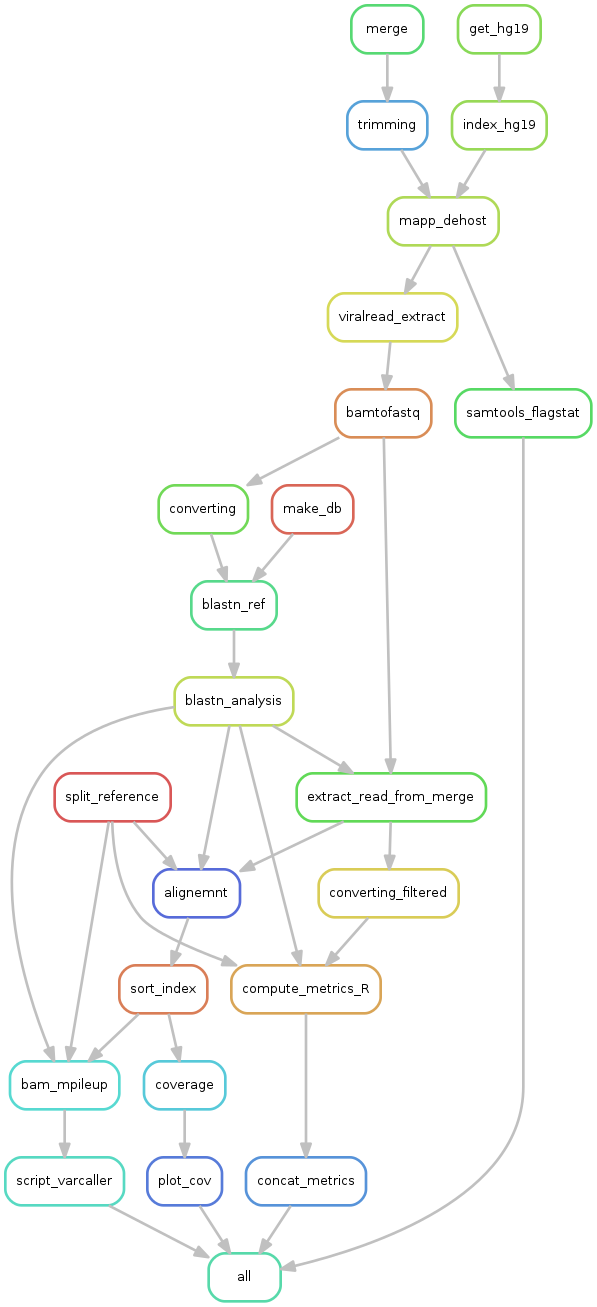
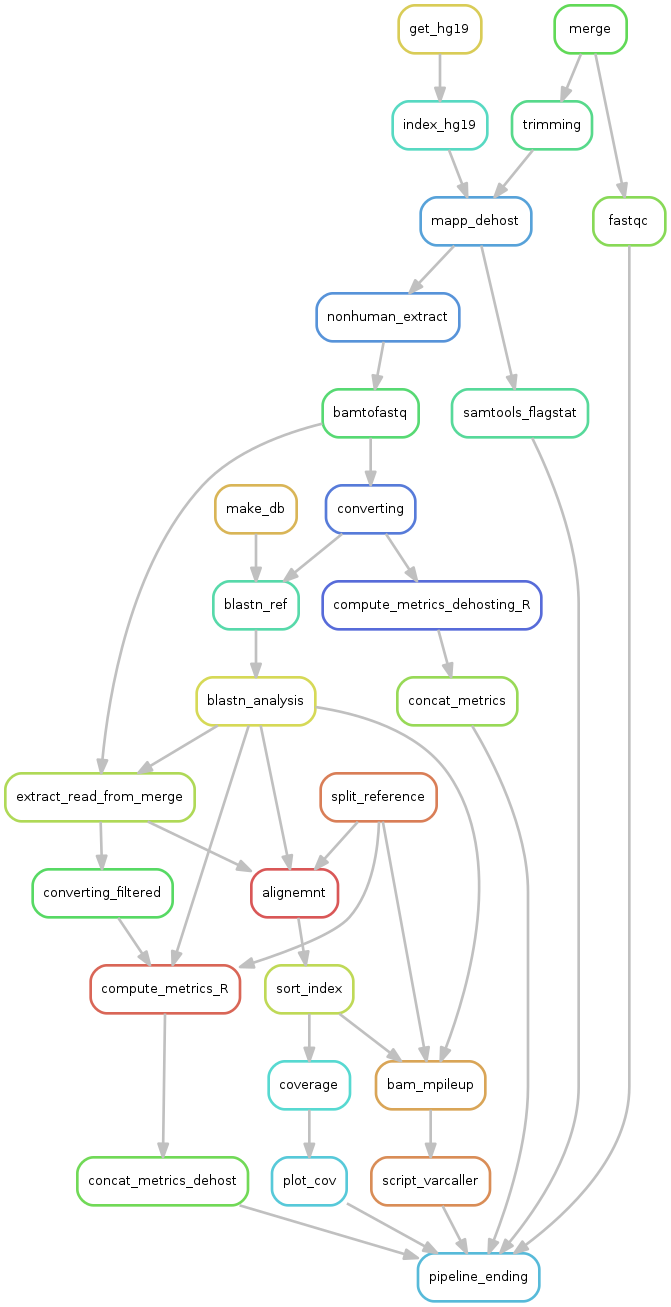
maj

diff --git a/VIRiONT.py b/VIRiONT.py
@@ -45,13 +45,13 @@ rule pipeline_ending:
         #spliced_bam = expand(resultpath+"BAM/{barcode}_spliced.bam"  ,barcode=BARCODE),
         #sorted_bam = expand(resultpath+"BAM/{barcode}_sorted.bam" ,barcode=BARCODE),
         #coverage = expand(resultpath+"COVERAGE/{barcode}.cov" ,barcode=BARCODE), 
-        cov_plot = resultpath+"COVERAGE/cov_plot.pdf" ,
-        fasta_cons = expand(resultpath+"CONSENSUS/{barcode}_cons.fasta",barcode=BARCODE), 
+        cov_plot = resultpath+"07_COVERAGE/cov_plot.pdf" ,
+        fasta_cons = expand(resultpath+"09_CONSENSUS/{barcode}_cons.fasta",barcode=BARCODE), 
         #QC
-        metric_sum = resultpath+"QC_ANALYSIS/POST-ASSIGN_METRICS/metric_summary.tsv",
-        metric_sum_dehost = resultpath+"QC_ANALYSIS/DEHOSTING/metric_summary.tsv" ,
-        fastqc_results = expand(resultpath+"QC_ANALYSIS/FASTQ_RAW/{barcode}/",barcode=BARCODE), 
-        flagstat = expand(resultpath+"QC_ANALYSIS/DEHOSTING/{barcode}_human.txt",barcode=BARCODE), 
+        metric_sum = resultpath+"10_QC_ANALYSIS/POST-ASSIGN_METRICS/metric_summary.tsv",
+        metric_sum_dehost = resultpath+"10_QC_ANALYSIS/DEHOSTING/metric_summary.tsv" ,
+        fastqc_results = expand(resultpath+"10_QC_ANALYSIS/FASTQ_RAW/{barcode}/",barcode=BARCODE), 
+        flagstat = expand(resultpath+"10_QC_ANALYSIS/DEHOSTING/{barcode}_human.txt",barcode=BARCODE), 
 
 rule merge:
     message:
@@ -59,7 +59,7 @@ rule merge:
     input: 
         lambda wildcards: expand(datapath+"{barcode}", barcode=BARCODE)
     output: 
-        merged_fastq = resultpath+"MERGED/{barcode}_merged.fastq"  
+        merged_fastq = resultpath+"01_MERGED/{barcode}_merged.fastq"  
     params:
         path = datapath
     shell: 
@@ -71,7 +71,7 @@ rule fastqc:
     input:
         viral_fastq = rules.merge.output.merged_fastq
     output:
-        fastqc_results = directory(resultpath+"QC_ANALYSIS/FASTQ_RAW/{barcode}/")
+        fastqc_results = directory(resultpath+"10_QC_ANALYSIS/FASTQ_RAW/{barcode}/")
     conda:
         "env/fastqc.yaml"
     shell:
@@ -105,7 +105,7 @@ rule trimming:
     input:
         merged_fastq = rules.merge.output.merged_fastq
     output:
-        trimmed_fastq = resultpath+"TRIMMED/{barcode}_trimmed.fastq"
+        trimmed_fastq = resultpath+"02_TRIMMED/{barcode}_trimmed.fastq"
     conda:
         "env/nanofilt.yaml"
     shell:
@@ -116,7 +116,7 @@ rule mapp_dehost:
         trimmed_fastq = rules.trimming.output.trimmed_fastq ,
         ref_file= rules.index_hg19.output.hg19_index
     output:
-        human_bam = temp(resultpath+"DEHOSTING/{barcode}_human.bam")
+        human_bam = temp(resultpath+"03_DEHOSTING/{barcode}_human.bam")
     conda:
         "env/minimap2.yaml" 
     threads: 4
@@ -129,7 +129,7 @@ rule samtools_flagstat:
     input:
         human_bam = rules.mapp_dehost.output.human_bam
     output:
-        flagstat = resultpath+"QC_ANALYSIS/DEHOSTING/{barcode}_human.txt"
+        flagstat = resultpath+"10_QC_ANALYSIS/DEHOSTING/{barcode}_human.txt"
     conda:
         "env/samtools.yaml"
     shell:
@@ -139,7 +139,7 @@ rule nonhuman_extract:
     input:
         human_bam = rules.mapp_dehost.output.human_bam
     output:
-        nonhuman_bam = resultpath+"NONHUMAN/{barcode}_nonhuman.bam"
+        nonhuman_bam = resultpath+"03_DEHOSTING/{barcode}_nonhuman.bam"
     conda:
         "env/samtools.yaml" 
     shell: 
@@ -149,7 +149,7 @@ rule bamtofastq:
     input:
         nonhuman_bam = rules.nonhuman_extract.output.nonhuman_bam 
     output:
-        nonhuman_fastq = resultpath + 'NONHUMAN/{barcode}_nonhuman.fastq',
+        nonhuman_fastq = resultpath + '03_DEHOSTING/{barcode}_nonhuman.fastq',
     conda:
         "env/bedtools.yaml"
     shell:
@@ -178,7 +178,7 @@ rule compute_metrics_dehosting_R:
     input:
         fasta_file = rules.converting.output.converted_fastq_temp,
     output:
-        metric = temp(resultpath+"QC_ANALYSIS/DEHOSTING/{barcode}.tsv")
+        metric = temp(resultpath+"10_QC_ANALYSIS/DEHOSTING/{barcode}.tsv")
     conda:
         "env/Renv.yaml"   
     shell:
@@ -189,10 +189,10 @@ rule concat_metrics:
     input:
         metric = expand(rules.compute_metrics_dehosting_R.output.metric,barcode=BARCODE)
     output:
-        metric_sum = resultpath+"QC_ANALYSIS/DEHOSTING/metric_summary.tsv"
+        metric_sum = resultpath+"10_QC_ANALYSIS/DEHOSTING/metric_summary.tsv"
     run:    
-        listfile=glob.glob(resultpath + "QC_ANALYSIS/DEHOSTING/*.tsv")
-        sumfile=open(resultpath+"QC_ANALYSIS/DEHOSTING/metric_summary.tsv",'w')
+        listfile=glob.glob(resultpath + "10_QC_ANALYSIS/DEHOSTING/*.tsv")
+        sumfile=open(resultpath+"10_QC_ANALYSIS/DEHOSTING/metric_summary.tsv",'w')
         sumfile.write("SAMPLE\tSTATUS\tNB_READ\tMEAN\tMEDIAN\n")
         for file in listfile:
             readfile=open(file,'r')
@@ -207,7 +207,7 @@ rule split_reference:
     input:
         ref_file= refpath
     output:
-        ref_rep=directory(resultpath+"REFSEQ/")
+        ref_rep=directory(resultpath+"00_SUPDATA/REFSEQ/")
     shell:
         "script/split_reference.py {input} {output} "
 
@@ -217,9 +217,9 @@ rule make_db:
     input:
         ref_fasta_file = refpath 
     output:
-        database = expand(resultpath+"DB/"+database_name+".{ext}", ext=["nhr", "nin", "nsq"])
+        database = expand(resultpath+"00_SUPDATA/DB/"+database_name+".{ext}", ext=["nhr", "nin", "nsq"])
     params:
-        database_path = resultpath+"DB/"+database_name
+        database_path = resultpath+"00_SUPDATA/DB/"+database_name
     conda:
         "env/blast.yaml"                  
     shell:
@@ -234,10 +234,10 @@ rule blastn_ref:
         fasta_file = rules.converting.output.converted_fastq,
         database = rules.make_db.output.database ,
     output:
-        R_data = resultpath+"BLASTN_ANALYSIS/{barcode}_fmt.txt" 
+        R_data = resultpath+"04_BLASTN_ANALYSIS/{barcode}_fmt.txt" 
     threads: 4
     params:
-        database_path = resultpath+"DB/"+database_name    
+        database_path = resultpath+"00_SUPDATA/DB/"+database_name    
     conda:
         "env/blast.yaml"               
     shell:
@@ -252,9 +252,9 @@ rule blastn_analysis:
         R_data = rules.blastn_ref.output.R_data ,
         AnalTable = analysis_table ,
     output:
-        read_list = resultpath+"BLASTN_ANALYSIS/{barcode}_read-list.txt",
-        best_ref = resultpath+"BLASTN_ANALYSIS/{barcode}_bestref.txt",
-        ref_count_plot = resultpath+"BLASTN_ANALYSIS/{barcode}_barplot.png"
+        read_list = resultpath+"04_BLASTN_ANALYSIS/{barcode}_read-list.txt",
+        best_ref = resultpath+"04_BLASTN_ANALYSIS/{barcode}_bestref.txt",
+        ref_count_plot = resultpath+"04_BLASTN_ANALYSIS/{barcode}_barplot.png"
     params:
         analyse=database_name
     conda:
@@ -274,7 +274,7 @@ rule extract_read_from_merge:
         nonhuman_fastq = rules.bamtofastq.output.nonhuman_fastq
        
     output:
-        merged_filtered = resultpath+"FILTERED/{barcode}_bestref.fastq" 
+        merged_filtered = resultpath+"05_BESTREF_FILTERED/{barcode}_bestref.fastq" 
     conda:
         "env/seqkit.yaml"          
     shell:
@@ -304,7 +304,7 @@ rule compute_metrics_R:
         best_ref = rules.blastn_analysis.output.best_ref ,
         split_ref_path = rules.split_reference.output.ref_rep ,
     output:
-        metric = temp(resultpath+"QC_ANALYSIS/POST-ASSIGN_METRICS/{barcode}.tsv")
+        metric = temp(resultpath+"10_QC_ANALYSIS/POST-ASSIGN_METRICS/{barcode}.tsv")
     conda:
         "env/Renv.yaml"   
     shell:
@@ -317,10 +317,10 @@ rule concat_metrics_dehost:
     input:
         metric = expand(rules.compute_metrics_R.output.metric,barcode=BARCODE)
     output:
-        metric_sum = resultpath+"QC_ANALYSIS/POST-ASSIGN_METRICS/metric_summary.tsv"
+        metric_sum = resultpath+"10_QC_ANALYSIS/POST-ASSIGN_METRICS/metric_summary.tsv"
     run:    
-        listfile=glob.glob(resultpath + "QC_ANALYSIS/POST-ASSIGN_METRICS/*.tsv")
-        sumfile=open(resultpath+"QC_ANALYSIS/POST-ASSIGN_METRICS/metric_summary.tsv",'w')
+        listfile=glob.glob(resultpath + "10_QC_ANALYSIS/POST-ASSIGN_METRICS/*.tsv")
+        sumfile=open(resultpath+"10_QC_ANALYSIS/POST-ASSIGN_METRICS/metric_summary.tsv",'w')
         sumfile.write("SAMPLE\tREFERENCE\tNB_READ\tMEAN\tMEDIAN\n")
         for file in listfile:
             readfile=open(file,'r')
@@ -337,7 +337,7 @@ rule alignemnt:
         merged_filtered = rules.extract_read_from_merge.output.merged_filtered ,
         split_ref_path = rules.split_reference.output.ref_rep ,
     output:
-        spliced_bam = resultpath+"BAM/{barcode}_spliced.bam"  
+        spliced_bam = temp(resultpath+"06_BAM/{barcode}_spliced.bam" )
     conda:
         "env/minimap2.yaml"              
     shell:
@@ -352,8 +352,8 @@ rule sort_index:
     input:
         bam = rules.alignemnt.output.spliced_bam ,
     output:
-        sorted_bam = resultpath+"BAM/{barcode}_sorted.bam" ,
-        index_file = resultpath+"BAM/{barcode}_sorted.bam.bai"
+        sorted_bam = resultpath+"06_BAM/{barcode}_sorted.bam" ,
+        index_file = resultpath+"06_BAM/{barcode}_sorted.bam.bai"
     conda:
         "env/samtools.yaml"          
     shell:
@@ -362,30 +362,13 @@ rule sort_index:
         samtools index {output.sorted_bam}
         """   
 
-rule alignqc:
-    input:
-        split_ref_path = rules.split_reference.output.ref_rep ,
-        sorted_bam = rules.sort_index.output.sorted_bam ,
-        best_ref = rules.blastn_analysis.output.best_ref ,
-    output:
-        alignqc_results = directory(resultpath+"QC_ANALYSIS/ALIGNQC/{barcode}/")
-    conda:
-        "env/alignqc.yaml"
-    shell:
-        """
-        rm -r {output.alignqc_results} #prevent alignqc to fail du to an already existing directory
-        bestref=`cat {input.best_ref}`
-        alignqc analyze {input.sorted_bam} -g {input.split_ref_path}${{bestref}}.fasta \
-            --no_transcriptome  --output_folder {output.alignqc_results}
-        """
-
 rule coverage:
     message:
         "compute coverage from bam using bedtools."
     input:
         sorted_bam = rules.sort_index.output.sorted_bam
     output:
-        coverage = resultpath+"COVERAGE/{barcode}.cov" 
+        coverage = resultpath+"07_COVERAGE/{barcode}.cov" 
     conda:
         "env/bedtools.yaml"          
     shell:
@@ -397,8 +380,8 @@ rule plot_cov:
     input:
         cov = expand(rules.coverage.output.coverage,barcode=BARCODE)
     output:
-        cov_sum = temp(resultpath+"COVERAGE/cov_sum.cov") ,
-        cov_plot = resultpath+"COVERAGE/cov_plot.pdf"
+        cov_sum = temp(resultpath+"07_COVERAGE/cov_sum.cov") ,
+        cov_plot = resultpath+"07_COVERAGE/cov_plot.pdf"
     conda:
         "env/Renv.yaml" 
     shell:
@@ -413,7 +396,7 @@ rule bam_mpileup:
         sorted_bam = rules.sort_index.output.sorted_bam ,
         best_ref = rules.blastn_analysis.output.best_ref ,
     output:
-        vcf = resultpath+"VCF/{barcode}_sammpileup.vcf"
+        vcf = resultpath+"08_VCF/{barcode}_sammpileup.vcf"
     conda:
         "env/samtools.yaml"  
     shell:
@@ -426,7 +409,7 @@ rule script_varcaller:
     input:
         vcf = rules.bam_mpileup.output.vcf
     output:
-        fasta_cons = resultpath+"CONSENSUS/{barcode}_cons.fasta"
+        fasta_cons = resultpath+"09_CONSENSUS/{barcode}_cons.fasta"
     shell:
         """
         perl script/pathogen_varcaller_MINION.PL {input} {variant_frequency} {output} 

diff --git a/README.md b/README.md
@@ -19,10 +19,10 @@ barcoding/barcode02/*.fastq
 barcoding/barcode24/*.fastq
 ``` 
 For each barcode, here is the global workflow:  
-**Step1** => merging fastq  
-**Step2** => filtering merged fastq  
-**Step3** => blast research on each reference given  
-**Step4** => build consensus sequence on the majoritary reference  
+**Step1** => merging (in several fastq in the barcode rep) and trimming fastq using given parameters. 
+**Step2** => removing human read from fastq files.  
+**Step3** => blastn research on each reference for get the best maching reference.     
+**Step4** => build consensus sequence on the best matching reference.    
 
 # workflow dag
 
@@ -33,15 +33,24 @@ For each barcode, here is the global workflow:
 Instalation and use of the tools required for VIRiONT is fully managed by conda and snakemake.  
 Environment files and software versions are available in the *env/* folder.  
 
-
 # Quick using steps
 
 Step 1 : Get and install Anaconda here if needed => https://www.anaconda.com/products/individual <=  
-Step 2 : make sure snakemake is installed on your computer.  
+You may need to start new terminal for starting using conda.   
+```
+wget https://repo.anaconda.com/archive/Anaconda3-2020.07-Linux-x86_64.sh
+chmod +x Anaconda3-2020.07-Linux-x86_64.sh
+./Anaconda3-2020.07-Linux-x86_64.sh #Simply follow screen instructions for installing conda.
+```
+Step 2 : make sure snakemake is installed on your computer. 
+```
+conda -h
+conda -V
+``` 
 Snakemake 3.9.0 version or above is required for conda interaction.  
 You can quikly create a new conda environment with the latest available snakemake version by using this command(currently the 5.20.1 version):  
 ```
-conda create -c bioconda -c conda-forge -n snakemake snakemake-minimal
+conda create -c bioconda -c conda-forge -n VIRiONT_env snakemake-minimal
 ```
 Step 3 : download latest version of the pipeline using git command:  
 ```
@@ -49,36 +58,41 @@ git clone https://github.com/Stygiophobic/VIRiONT.git
 ```
 Step 4 : launch the pipeline by executing:  
 ```
-conda activate snakemake
+conda activate VIRiONT_env
 cd VIRiONT
-nohup ./launch_snakefile.sh > Report_Analysis.txt & 
+./VIRiONT.sh
 ```
 
 # Pipeline ouputs
 
 All pipeline output are stored in the choosen path (see below).For each analysis, the following output are produced:  
-**MERGED** folder, containing merged fastq.  
-**TRIMMED** folder, containing trimmed fastq by NanoFilt with the given parameters.  
-**REFSEQ** folder , containing all the splited references from the main reference fasta given in input.  
-**BD** folder, containing the database built using blast.  
-**FASTA** folder, containing fasta converted fastq using seqtk. Useless?  
-**BLASTN_RESULT** folder, containing the blastn results for each fastq.  
-**BLASTN_ANALYSIS** folder, containing the blastn analysis using R, including the list of reads matching with the best reference, with barplot of reference repartition for each barcode.  
-**FILTERED** folder, containing fastq with read corresponding with best reference only using seqkit.  
+**00_SUPPDATA/REFSEQ** folder , containing all the splited references from the main reference fasta given in input.  
+**00_SUPPDATA/BD** folder, containing the database built using blast.  
+**01_MERGED** folder, containing merged fastq.  
+**02_TRIMMED** folder, containing trimmed fastq by NanoFilt with the given parameters.  
+**03_DEHOSTING** folder, containing dehosted (non human) bam.  
+**04_BLASTN_ANALYSIS** folder, containing the blastn analysis using R, including the list of reads matching with the best reference, with barplot of reference repartition for each barcode.  
+**05_BESTREF_FILTERED** folder, containing fastq with read corresponding with best reference only using seqkit.  
 BAM folder, containing sorted and indexed bam from each filtered fastq, and mapped on their respecting best matching reference.  
-**COVERAGE** folder, containing coverage table from each bam using bedtools,and coverage plots compiled in one pdf.  
-**CONS_PERL** folder, containing consencus sequences generated by a custom perl script.  
+**06_BAM** folder, containing bam aligned on the best reference.  
+**07_COVERAGE** folder, containing coverage table from each bam using bedtools,and coverage plots compiled in one pdf.  
+**08_VCF** foler, containing mpileup and variant calling results.  
+**09_CONSENSUS** folder, containing consencus sequences generated by a custom perl script.  
+**10_10_QC_ANALYSIS** folder, containing several metrics.  
 
 
 # Input and configuration
 
-Here is a view on the parameters to check before launching analysis. To change parameters, you have to open VIRiONT/launch_snakefile.sh with a text editor. All parameters are located in the ###### CONFIGURATION ####### section.
+Here is a view on the parameters to check before launching analysis. To change parameters, you have to open VIRiONT/VIRiONT.sh with a text editor. All parameters are located in the ###### CONFIGURATION ####### section.
 
 **data_loc** : path where fastq data are stored. Be sure this path leads on all barcode folders you want to analyse.Currently, only fastq repositories marked as "barcode*" are interpreted as repository data. If needed, rename your rep as "barcode*".  
 **result_loc** : path leading to the output folders produced by the analysis. NB: the pipeline will recursively create the path, so a previous mkdir is unnecessary.  
 **ref_loc** : path to the file containing all references sequences used for the blastn analysis. We you need to create a new one, check examples in *ref/* folder.  
-**ref_table** : path to the Table (currently a csv is required) containing reference list for the blastn analysis. /!\ Column must correspond to the fasta name in ref_loc for correctly computing the best reference, and each row must correspond to each fasta header in the reference fasta file. Please check analysis/table_analysis if needed.  
+**ref_table** : path to the Table (currently a csv is required) containing reference list for the blastn analysis. /!\ Column must correspond to the fasta name in ref_loc for correctly computing the best reference, and each row must correspond to each fasta header in the reference fasta file. Please check analysis/table_analysis if needed for an example.  
 **min_length** : minimal read size required for passing the filtering step.  
 **max_length** : maximal read size required for passing the filtering step.  
+**head** : nucleotid length to trimm in 5'.  
+**tail** : nucleotid length to trimm in 3'.  
+**Vfreq** : minor variant frequency threshold.  
 **thread_number** : Define number of threads to use for the analysis.  
 **mem_cost** : define the memory amount in mb to use for the analysis.
